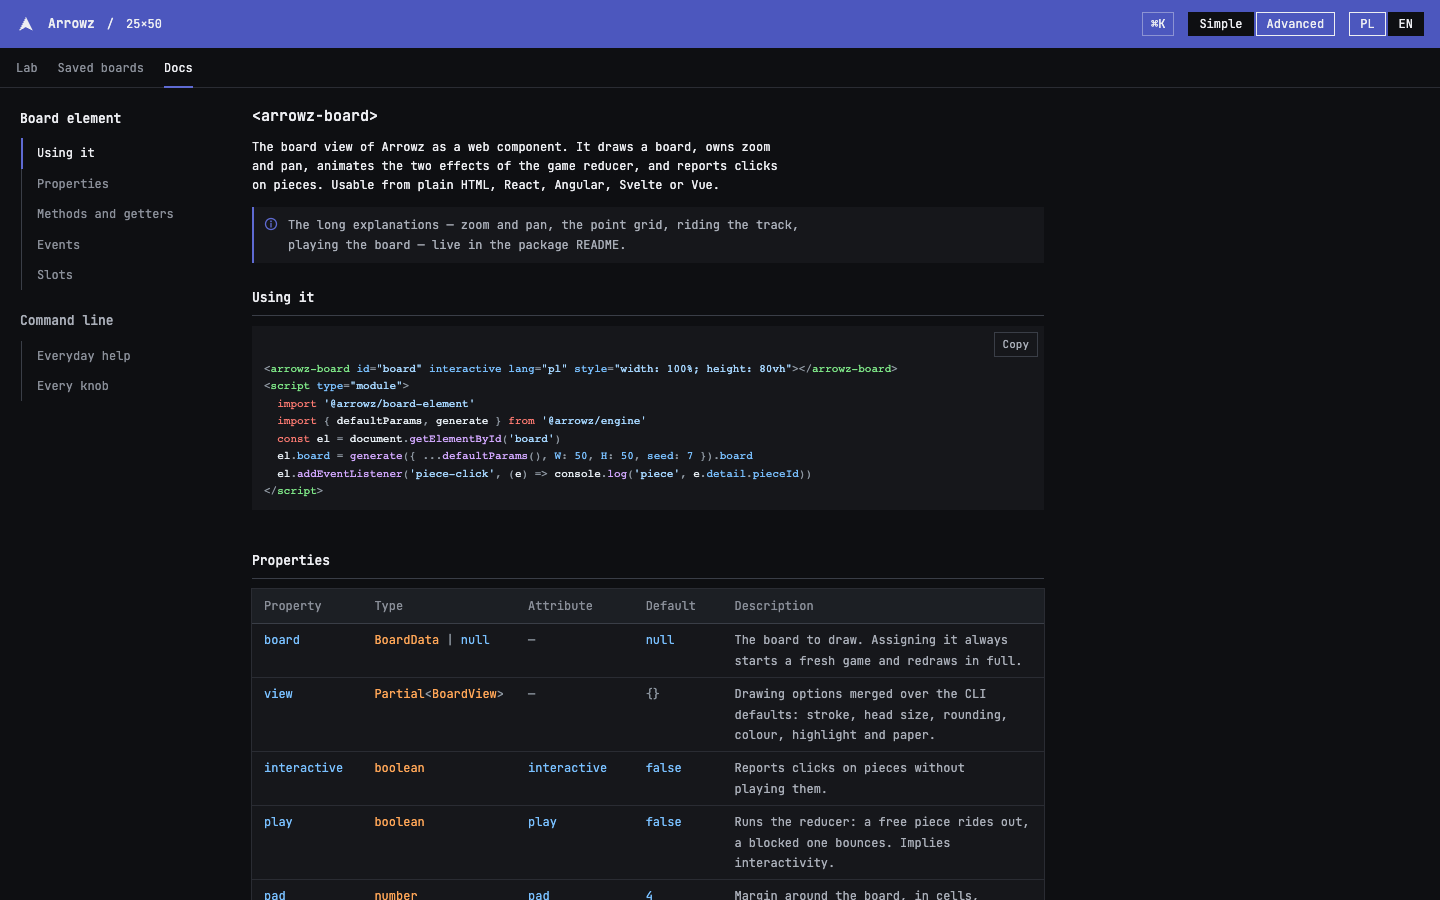
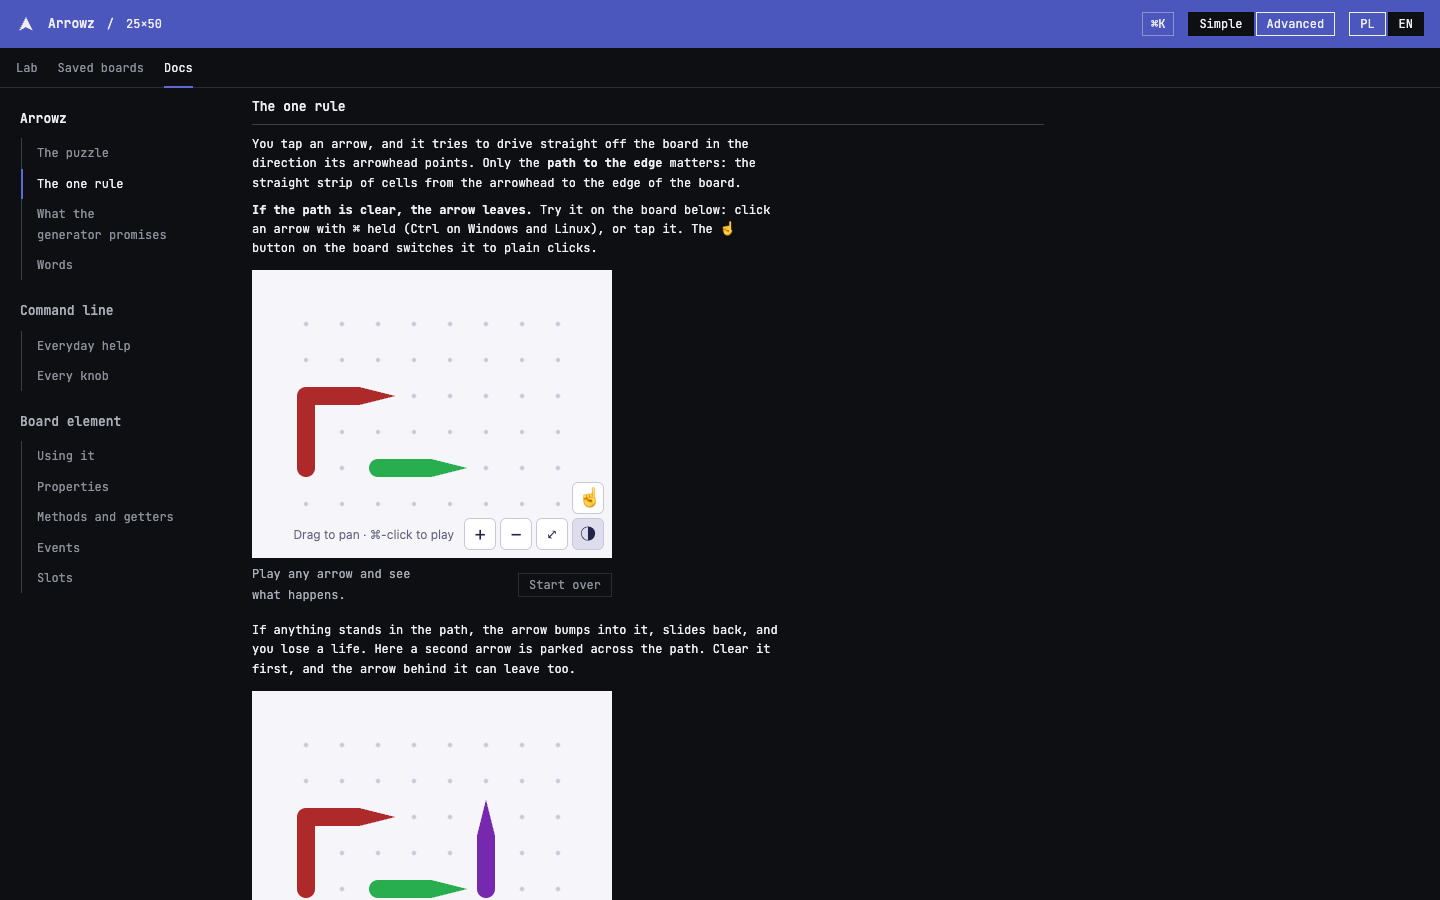
lab: the docs screenshot shows the Arrowz page at its rule boards

diff --git a/apps/lab/README.md b/apps/lab/README.md
@@ -228,7 +228,7 @@ records how each was taken, and `pnpm nx run lab:screenshots` takes them again.
 
 ![Saved boards](docs/screenshots/boards.png)
 
-![The board element's documentation](docs/screenshots/docs.png)
+![The documentation: the puzzle and its rule](docs/screenshots/docs.png)
 
 <p>
   <img src="docs/screenshots/phone-lab.png" alt="On a phone" width="300">
